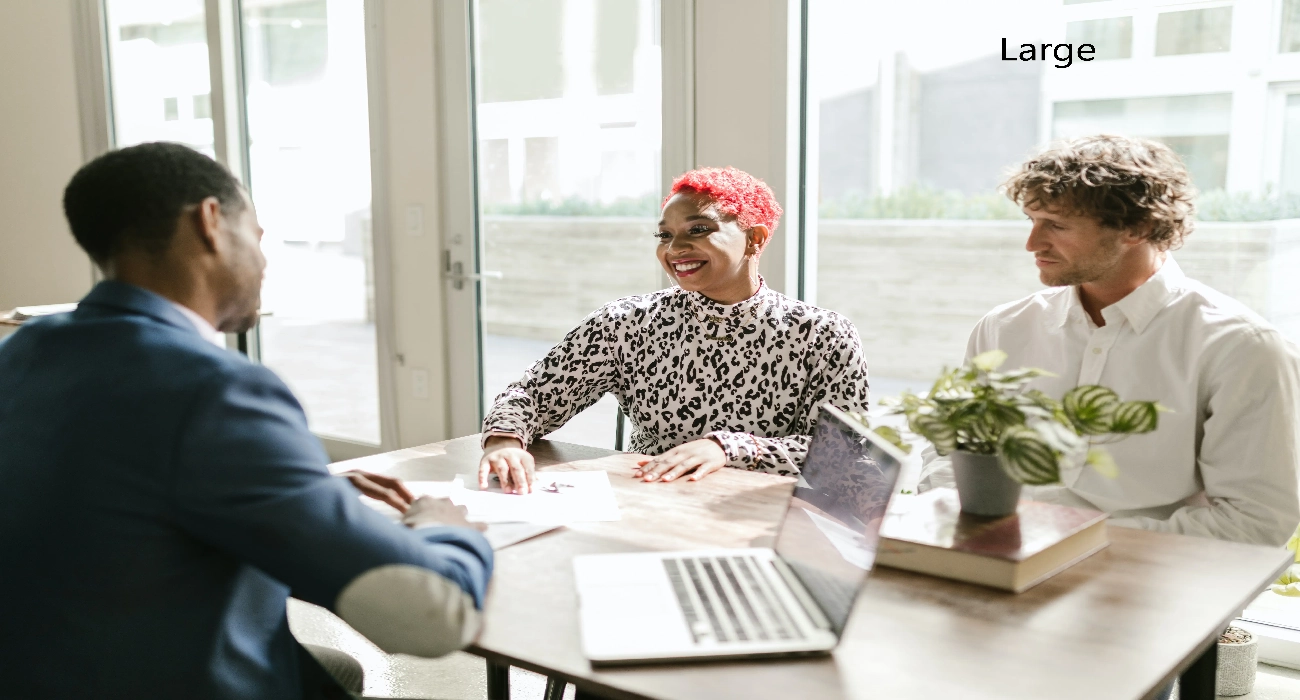
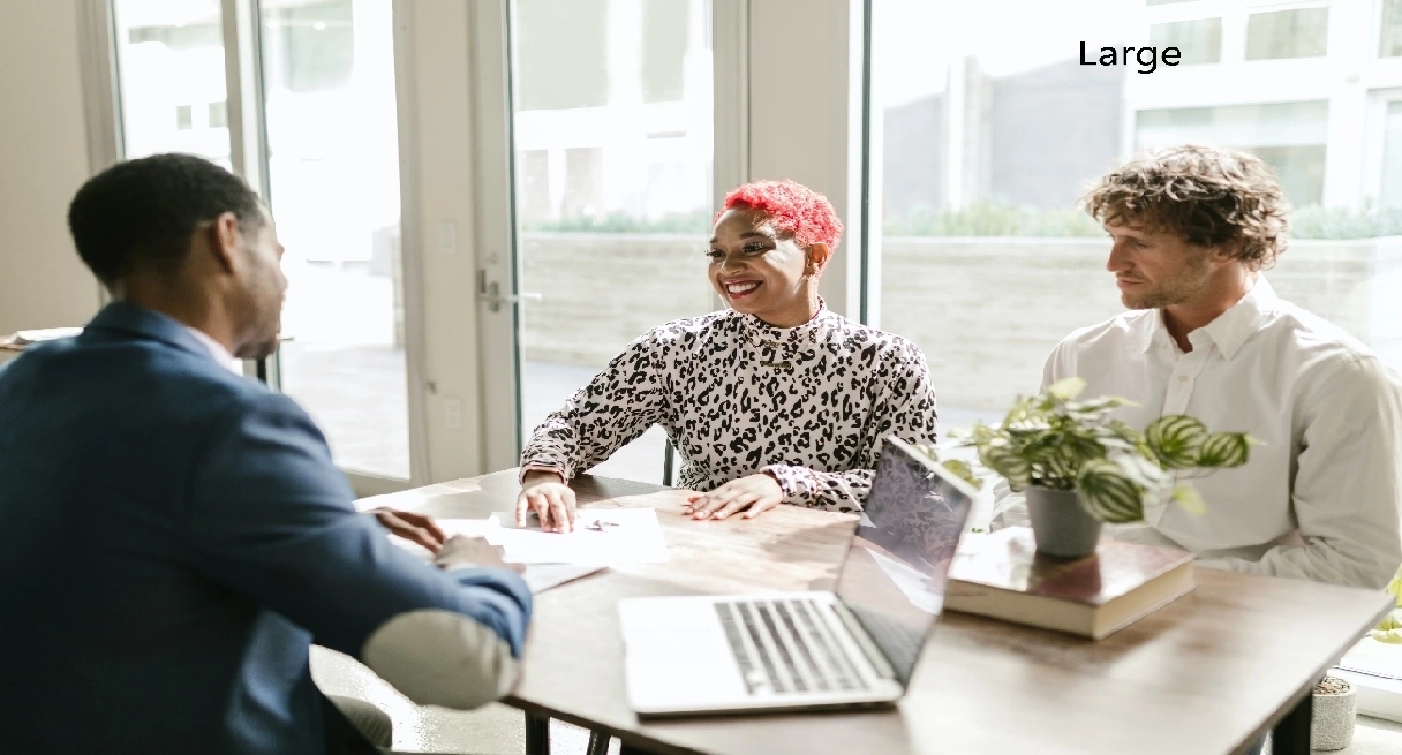
resolution

diff --git a/chamber/index.html b/chamber/index.html
@@ -67,8 +67,10 @@
         <div class="hero">
             <picture>
                 <source srcset="images/wdd230-org.small.webp" media="(min-width: 400px) and (max-width: 799px)">
-                <source srcset="images/wdd230-org.medium.webp" media="(min-width: 960px)">
+                <source srcset="images/wdd230-org.medium.webp" media="(min-width: 800px)">
                 <img class="banner" src="images/wdd230-org.large.webp" lt="Irvine California">
+
+
             </picture>
             <h1 class="hero-banner">Welcome to the Irvine<br>Chamber of Commerce</h1>
             <form action="join.html"><button class="call-to-action" type="submit">Join the Chamber</button></form>

diff --git a/chamber/styles/base.css b/chamber/styles/base.css
@@ -73,8 +73,7 @@
         nav,
         main,
         footer {
-            max-width: 1500px;
-            min-width: 350px;
+            max-width: 1800px;
             margin: 0 auto;
         }
         
@@ -983,7 +982,6 @@
         }
         
         main img {
-            float: left;
             margin: 0 0 1rem 1rem;
             border: 1px solid #333;
             box-shadow: 0 0 15px #777;
